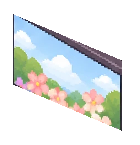
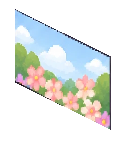
Line up the TV-on picture with the room TV's screen
The affine mapping used the wrong corners: the room screen's top-right
was placed over the right bezel and the source TV's top-right was 25px
too high, so the picture came out skewed. Re-measured both screens'
inner frames and regenerated tv_on.webp. Bump SW cache to v49.

Changed region(s): [[0.0857, 0.0552, 0.8857, 0.9103]]

diff --git a/public/sw.js b/public/sw.js
@@ -1,5 +1,5 @@
 // 改了任何檔案就把版本號 +1，舊快取才會被清掉
-const CACHE = 'lifelog-v48';
+const CACHE = 'lifelog-v49';
 const ASSETS = [
   './',
   './privacy',

diff --git a/art/tools/room_pixel.py b/art/tools/room_pixel.py
@@ -49,8 +49,8 @@ TV_BOX = (1040, 405, 140, 145)
 def tv_on():
     from PIL import ImageDraw
     s = Image.open(f'{SRC}/small.webp').convert('RGBA')
-    dst = [(1053, 419), (1161, 465), (1053, 489)]   # 房間電視螢幕：左上、右上、左下
-    src = [(1096, 540), (1292, 600), (1096, 655)]   # 小物件圖裡的同三個角
+    dst = [(1055, 414), (1150, 461.5), (1055, 487)]   # 房間電視螢幕：左上、右上、左下（量內框，上下邊斜率都是 0.5）
+    src = [(1098, 538), (1292, 625), (1098, 656)]   # 小物件圖裡的同三個角
     A = np.array([[x, y, 1] for x, y in dst], float)
     cx = np.linalg.solve(A, [p[0] for p in src]); cy = np.linalg.solve(A, [p[1] for p in src])
     X0, Y0, w, h = TV_BOX
